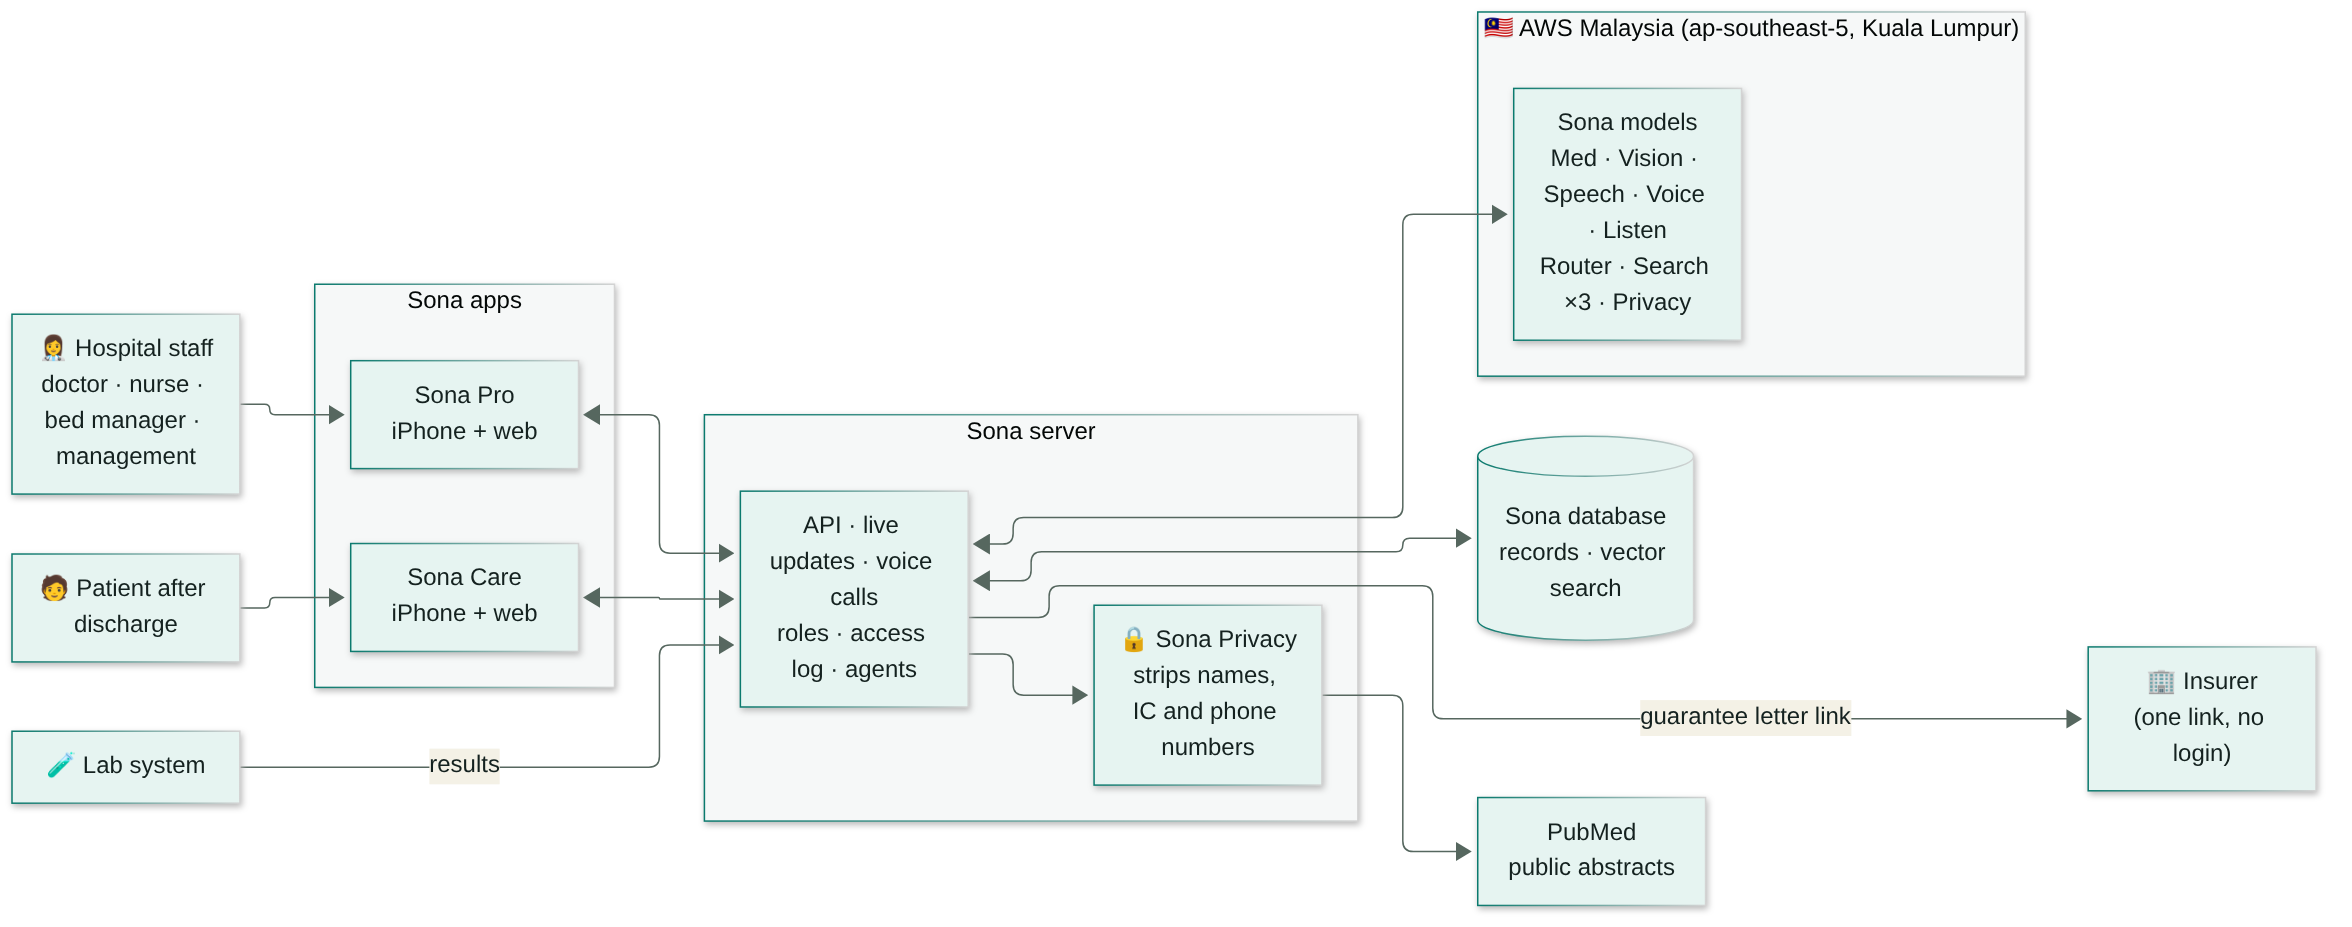
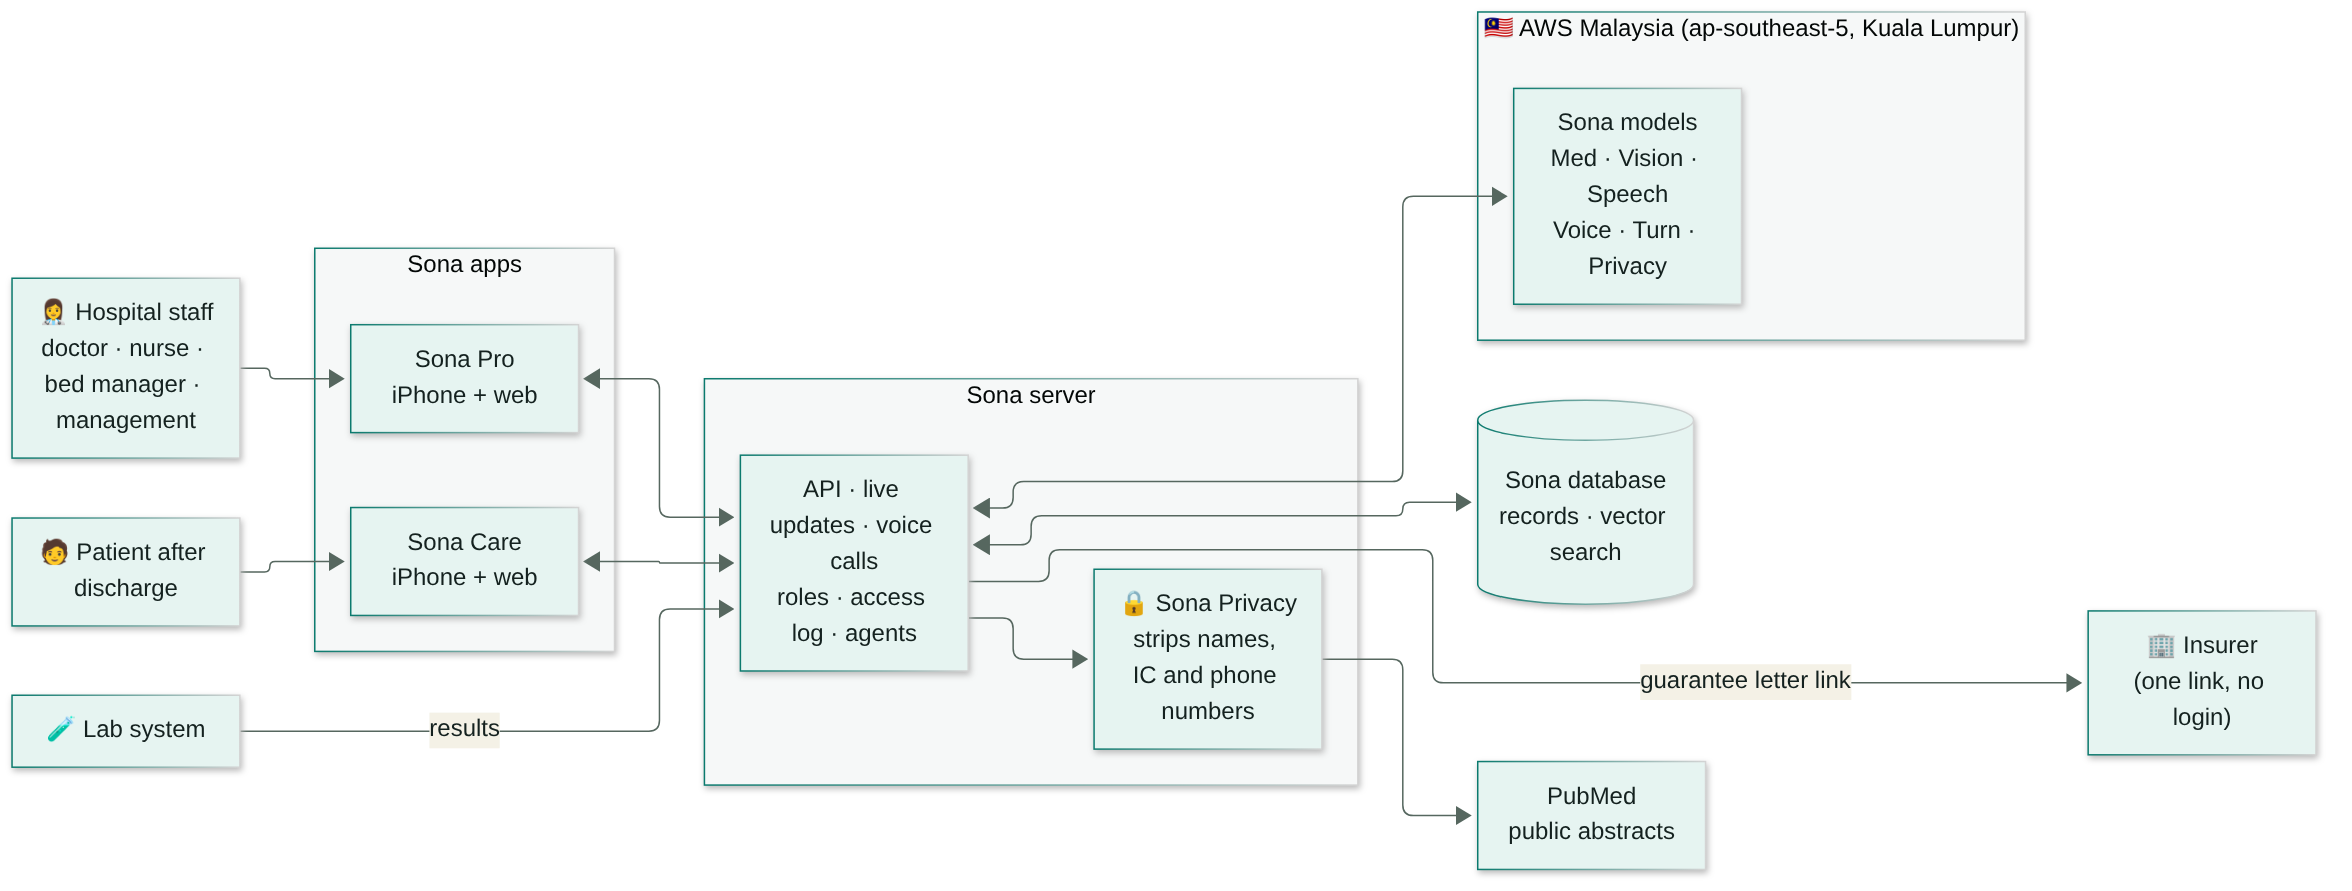
docs(readme): six models, not ten
Claude-Session: https://claude.ai/code/session_01DYViQoskrxKnA3S4xMfTX1

diff --git a/README.md b/README.md
@@ -12,7 +12,7 @@ On AI models we trained ourselves, running in Malaysia.
 
 *Every feature in video, the live system to try, and the numbers behind it.*
 
-**Ten models. All trained by us. All in Malaysia.**
+**Six models. All trained by us. All in Malaysia.**
 
 </div>
 
@@ -20,7 +20,7 @@ On AI models we trained ourselves, running in Malaysia.
 > **Want to test Sona live?** To save cost, the servers that host our AI models are temporarily in hibernate mode.
 > Email **[ngchwanlii@zhiyuantech.ai](mailto:ngchwanlii@zhiyuantech.ai)** and we will wake them up for you.
 
-| 4 screens | 10 models | ~10 s | 3.5× |
+| 4 screens | 6 models | ~10 s | 3.5× |
 |:---:|:---:|:---:|:---:|
 | Sona Pro (iPhone + web) for staff,<br>Sona Care (iPhone + web) for patients | All trained by us,<br>all hosted in AWS Malaysia | From a 3-minute, 4-person<br>consultation to a full note | Fewer word errors than the next<br>best model on Malaysian clinic speech |
 
@@ -94,7 +94,7 @@ flowchart LR
     end
 
     subgraph my["🇲🇾 AWS Malaysia (ap-southeast-5, Kuala Lumpur)"]
-        models["Sona models<br/>Med · Vision · Speech · Voice · Listen<br/>Router · Search ×3 · Privacy"]
+        models["Sona models<br/>Med · Vision · Speech<br/>Voice · Turn · Privacy"]
     end
 
     db[("Sona database<br/>records · vector search")]
@@ -124,7 +124,7 @@ Postgres with vector search · Better-Auth · models served on AWS SageMaker in 
 
 **Every model that reads patient records runs in Malaysia. Patient records never leave Malaysia.**
 
-- 🇲🇾 **Models in Malaysia.** All ten Sona models run in AWS Malaysia (Kuala Lumpur), on servers we control. In a hospital, they run on the hospital's own servers.
+- 🇲🇾 **Models in Malaysia.** All six Sona models run in AWS Malaysia (Kuala Lumpur), on servers we control. In a hospital, they run on the hospital's own servers.
 - 🔒 **Names stripped first.** Sona Privacy removes names, IC numbers and phone numbers before anything is saved for training, saved from a scan, or searched outside (like PubMed).
 - 🎙 **Audio not kept.** Consultation audio is transcribed in memory and not stored. The note and transcript stay in the record.
 - ✅ **A person approves.** Every AI output is a draft until staff approve it.
@@ -140,15 +140,13 @@ and we only ship a model when it beats the alternatives on our own tests in Engl
 |---|---|---|
 | **Sona Med** | The reasoning: notes, letters, appeals, evidence answers, replies to patients, discharge plans. Built on Gemma 4 26B. | Our best 8B model scored 8 to 16 points lower on medical exams, so Sona uses the 26B. |
 | **Sona Speech** | Hears medical Manglish: Malay, English and Chinese mixed in one sentence. Built on Qwen3-ASR 1.7B. | 4.1% words wrong on clinic speech; 30 of 31 drug names right |
-| **Sona Listen** | Tells voices apart: who said what in the room. | 97.1% of turns to the right person, up to 8 people |
 | **Sona Voice** | Speaks Sona's replies in a Malaysian nurse's voice, trained on 4.35 hours of her speech. Built on VoxCPM2. | Reply starts 1.5 to 2.25 s after the patient stops |
 | **Sona Vision** | Reads chest X-rays, handwritten notes, documents and medicine boxes. Built on MedGemma 1.5 4B. | X-ray read in about 4 s |
-| **Sona Router** | Picks which part of Sona answers each request. | Right 92% of the time in 41 ms, against 90% for a 26B general model and 34% before training |
-| **Sona Search** (3 models) | Finds the right page in the hospital's library, finds similar X-rays, ranks what it found. | |
-| **Sona Privacy** | Strips names, IC numbers and phone numbers. Built on OpenMed PII mClinicalE5. | |
+| **Sona Turn** | Knows when the speaker has finished, so Sona replies at the right moment in a voice call. Built on Smart Turn v3.2. | — |
+| **Sona Privacy** | Strips names, IC numbers and phone numbers. Built on OpenMed PII mClinicalE5. | — |
 
 We also trained models we did **not** ship because they lost on our tests: a one-model voice call
-(worse medical answers), an end-of-turn detector, and two search fine-tunes (both less accurate).
+(worse medical answers) and two search fine-tunes (both less accurate).
 
 🤗 **Model weights:** [huggingface.co/zhiyuantechnology](https://huggingface.co/zhiyuantechnology)
 
